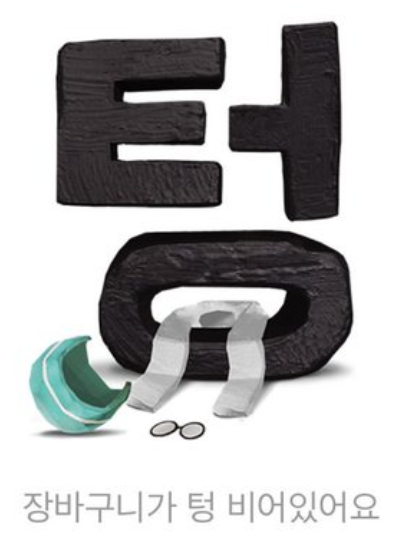
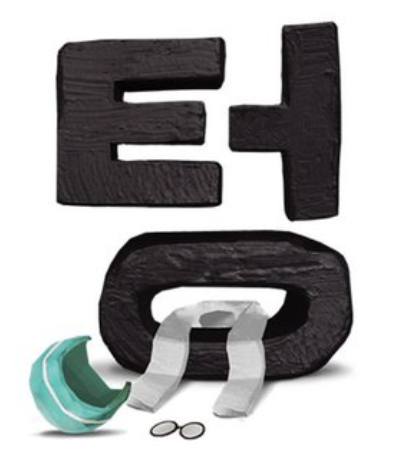
feat: 검색 결과 페이지에서 검색어 표시 및 검색 결과 없을 시 "텅" 표시

diff --git a/client/src/pages/SearchResultDashboard/SearchResultDashboard.tsx b/client/src/pages/SearchResultDashboard/SearchResultDashboard.tsx
@@ -1,4 +1,4 @@
-import React, { useState, useReducer } from 'react'
+import React, { useReducer } from 'react'
 import { ProductCardType } from '../../types/productCard'
 import { Dashboard } from '../../components/Dashboard'
 import { VerticalList } from '../../components/VerticalList'
@@ -6,16 +6,30 @@ import { Sorter } from '../../components/Sorter'
 import { SortType } from '../../types/sort'
 import { PRODUCT_SORT_TYPE } from '../../utils/constants'
 import { useLocation } from 'react-router-dom'
+import styled from 'styled-components'
+import { Header } from '../../components/Header'
+import { Navbar } from '../../components/Navbar'
 
 type Props = {}
 
+const StyledContainer = styled.div`
+  background-image: url("${process.env.PUBLIC_URL}/images/tung.png");
+  height: calc(100vh - 50px);
+  background-position: center;
+  background-size: 50%;
+  background-repeat: no-repeat;
+  background-color: white;
+`
+
 type RouteState = {
   searchResultList: ProductCardType[]
+  query: string
 }
 
 type State = {
   resultList: ProductCardType[]
   sorter: SortType
+  query: string
 }
 
 type Action = {
@@ -33,6 +47,7 @@ const searchResultReducer = (state: State, action: Action): State => {
             else return -1
           }),
           sorter: action.payload.sorter,
+          query: state.query,
         }
       } else if (action.payload.sorter === 'priceAsc') {
         return {
@@ -41,6 +56,7 @@ const searchResultReducer = (state: State, action: Action): State => {
             else return -1
           }),
           sorter: action.payload.sorter,
+          query: state.query,
         }
       } else if (action.payload.sorter === 'priceDesc') {
         return {
@@ -49,6 +65,7 @@ const searchResultReducer = (state: State, action: Action): State => {
             else return -1
           }),
           sorter: action.payload.sorter,
+          query: state.query,
         }
       }
     }
@@ -59,11 +76,13 @@ const searchResultReducer = (state: State, action: Action): State => {
 
 export const SearchResultDashboard = (props: Props) => {
   const location = useLocation<RouteState>()
-  const { searchResultList } = location.state
+  console.log(location.state)
+  const { searchResultList, query } = location.state
 
   const initialState: State = {
     resultList: searchResultList,
     sorter: '',
+    query: query,
   }
 
   const [state, dispatch] = useReducer(searchResultReducer, initialState)
@@ -72,16 +91,32 @@ export const SearchResultDashboard = (props: Props) => {
     dispatch({ type: 'sorterChange', payload: { sorter } })
   }
 
+  const resultExists = () => {
+    if (state.resultList && state.resultList.length !== 0) {
+      return true
+    } else return false
+  }
+
   return (
-    <Dashboard title="검색 결과">
-      <>
-        <Sorter
-          selectedSorter={state.sorter}
-          sorterList={PRODUCT_SORT_TYPE}
-          sorterChangeHandler={sorterChangeHandler}
-        />
-        <VerticalList title="" productList={state.resultList} />
-      </>
-    </Dashboard>
+    <div>
+      {resultExists() ? (
+        <Dashboard title={`"${query}"에 대한 검색 결과`}>
+          <div>
+            <Sorter
+              selectedSorter={state.sorter}
+              sorterList={PRODUCT_SORT_TYPE}
+              sorterChangeHandler={sorterChangeHandler}
+            />
+            <VerticalList title="" productList={state.resultList} />{' '}
+          </div>
+        </Dashboard>
+      ) : (
+        <div>
+          <Header title={`"${query}"에 대한 검색 결과`} />
+          <StyledContainer></StyledContainer>
+          <Navbar />
+        </div>
+      )}
+    </div>
   )
 }

diff --git a/client/src/pages/SearchDashboard/SearchDashboard.tsx b/client/src/pages/SearchDashboard/SearchDashboard.tsx
@@ -48,7 +48,7 @@ const searchReducer = (state: State, action: Action) => {
   switch (action.type) {
     case 'submit': {
       return {
-        query: '',
+        ...state,
         hasQueried: true,
         searchResultList: action.payload.searchResultList,
       }
@@ -85,14 +85,17 @@ export const SearchDashboard = (props: Props) => {
     })
     const data = await result.json()
 
-    dispatch({ type: 'submit', payload: { searchResultList: data } })
+    dispatch({ type: 'submit', payload: { searchResultList: data, query: state.query } })
   }
 
   return (
     <Dashboard title="검색" navbar={false} searchBar={false} footer={false}>
       {state.hasQueried ? (
         <Redirect
-          to={{ pathname: '/search-result', state: { searchResultList: state.searchResultList } }}
+          to={{
+            pathname: '/search-result',
+            state: { searchResultList: state.searchResultList, query: state.query },
+          }}
         />
       ) : (
         <StyledContainer className="search-dashboard">
